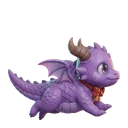
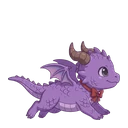
ポロを2Dアニメ塗りに差し替え（3D調は「プラスチックっぽい」と差し戻し）
・形（動物の子竜・おすわり）はそのまま、塗りをミミの立ち絵と同じ線画＋セル塗りに（決裁＝①）。
・立ち絵6表情・グルメレース3を差し替え。eat/sleepy で消えていた赤い蝶ネクタイは修正生成で戻した。
・散歩シートはドット絵のまま（プラスチック感なし）。レース中の竜は他の51頭と同じV2の3D調のまま。
・docs/CAST_ART_BRIEF.md §4：画風＝2Dアニメ塗り、3D・艶・塩ビ/粘土の質感は禁止、正本 job を 934b6f65 に更新。

Changed region(s): [[0.0625, 0.2812, 0.9375, 0.9375]]

diff --git a/docs/CAST_ART_BRIEF.md b/docs/CAST_ART_BRIEF.md
@@ -99,8 +99,11 @@
 > - 残す識別点：紫の鱗＋薄紫のお腹／茶色の巻き角／赤い蝶ネクタイ（赤い宝石つき）／小さなコウモリ翼／短い尾／泣き虫（目元が潤む・涙）。
 > - 動物にする：丸く艶のある**動物の目**（黒い瞳＋ハイライト1つ・まつ毛/まぶたの線/眉なし）、短い爬虫類の鼻先、トカゲの口（人の唇・人の歯なし）、
 >   **チーク禁止**、前足は爪つきの足（人の手・手を組むポーズ禁止）、子犬のように**おすわり**が基本姿勢。
-> - 画風：レース竜V2と同じ3D調（`images/dragons/poro.png` と並べて同じ竜に見えること）。
-> - 正本＝Higgsfield job `adc30bdc-ebf0-48f5-91e8-adc64184b427`（nano_banana_pro・参照はV2レース竜ポロ）。表情差分はこの job を参照して i2i。
+> - 画風：**2Dアニメ塗り**（濃い紫の線画＋2〜3段のセル塗り＝ミミの立ち絵と同じ系統）。
+>   ※最初に作った3D調は「プラスチックっぽくて気持ち悪い」と差し戻し（2026-09-24）＝**3D・艶・塩ビ/粘土の質感は禁止**。
+>   レース中の竜（`images/dragons/poro.png`）だけは他の51頭と同じV2の3D調のまま（レース画面の統一を優先）。
+> - 正本＝Higgsfield job `934b6f65-2d29-4343-9b8e-40aa868895ea`（nano_banana_pro）。表情差分・スプライトはこの job を参照して i2i。
+>   （形の元＝3D調の案A `adc30bdc-…`。参照に使うと3D調に戻るので使わない）
 > - 旧版は `images/cast/archive_poro_v1/`（立ち絵6・グルメレース3・散歩シート）。
 
 - **参照（必ず開く）**: `images/cast/stand/poro.webp` / `poro_cry.webp` / `poro_surprise.webp`
